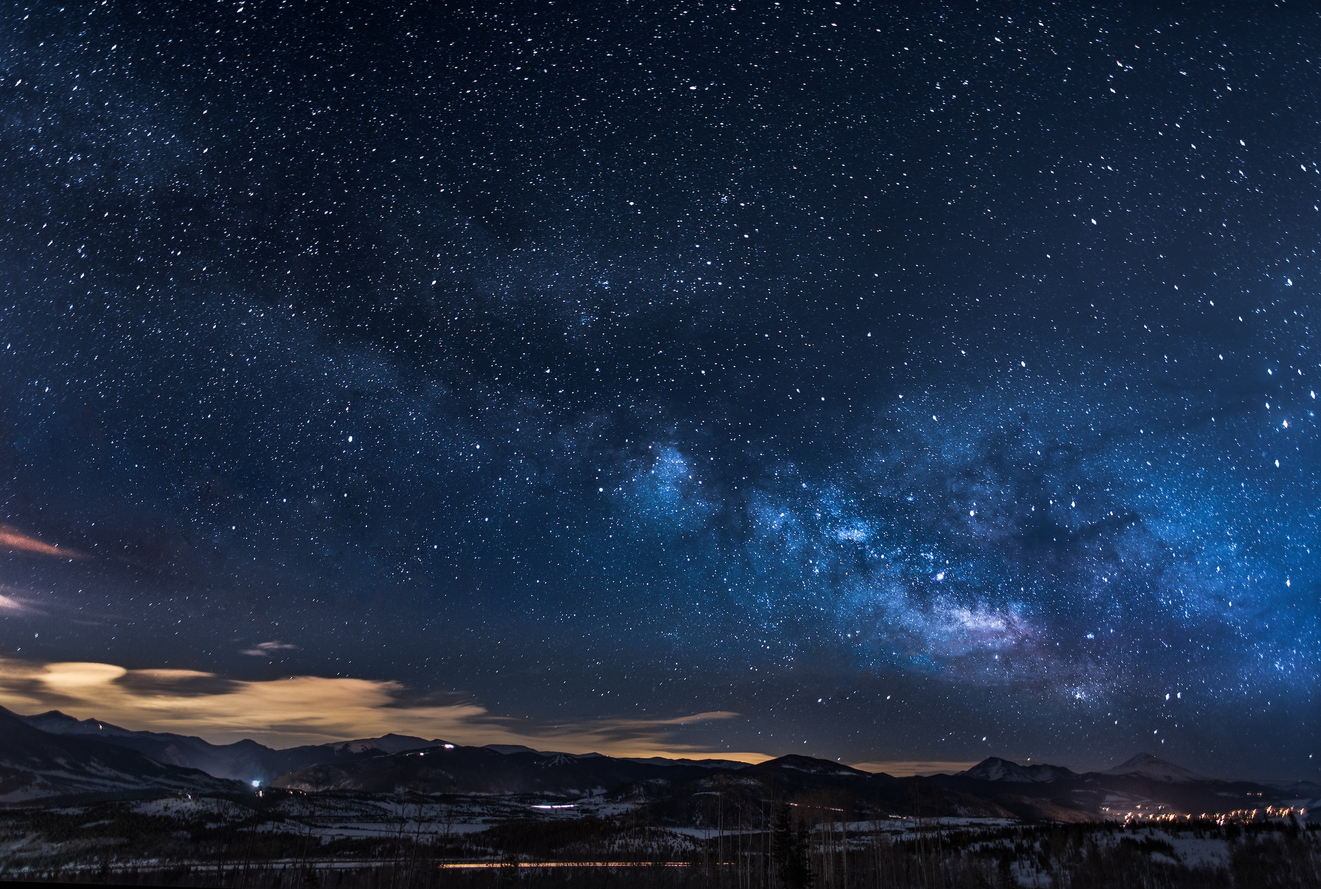
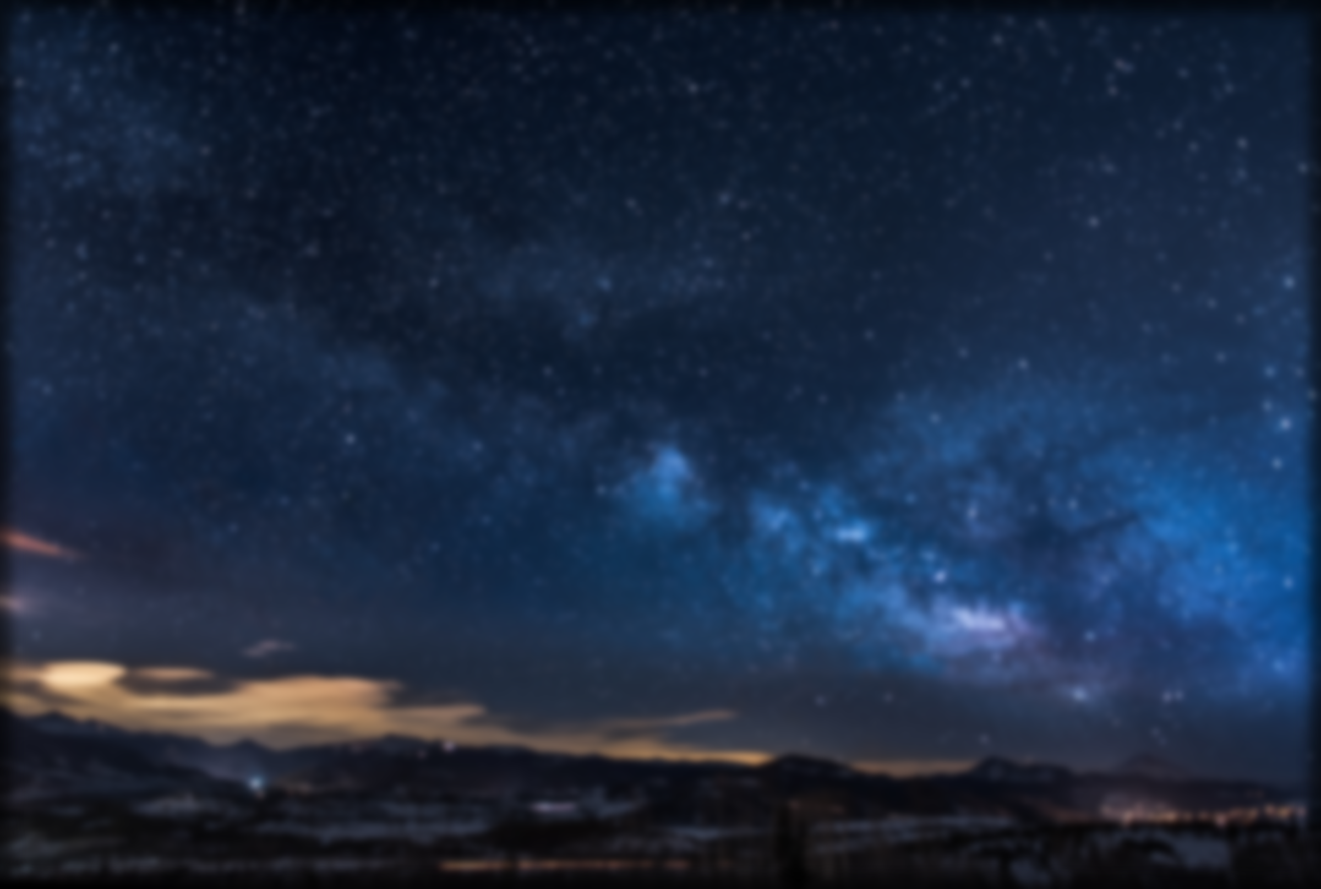
modified:   beta.html 	modified:   bstyles.css 	modified:   index.html 	modified:   ores/bk.png

diff --git a/index.html b/index.html
@@ -23,7 +23,7 @@
 
                 <div class="card" style="height: 20px;padding: 15px;">
                     <p class="carddesc" style="float: left;margin-top:0px">Try the new cosine64.com redesign!</p>
-                    <a href="beta" class="downloadbutton">Try</a>
+                    <a href="beta.html" class="downloadbutton">Try</a>
                 </div>
                 
                 <div class="card">

diff --git a/bstyles.css b/bstyles.css
@@ -108,6 +108,7 @@
 
 .mainimg {
     width: 500px;
+
 }
 
 
@@ -118,11 +119,14 @@
 .backfilter {
     width: 100%;
     height: 100%;
+}
+
+.back {
     background-size: cover;
     background-position: 50% 100%;
-    position:fixed;
     background-image: url(ores/bk.png);
-    filter: blur(6px);
+    background-attachment: fixed;
+
 }
 
 .end {

diff --git a/beta.html b/beta.html
@@ -8,7 +8,6 @@
     </head>
     <body bgcolor="#000000" style="margin:0px;">
         <div class="back">
-            <div class="backfilter"></div>
             <div class="innerDiv">
 
                 <div class="page">
